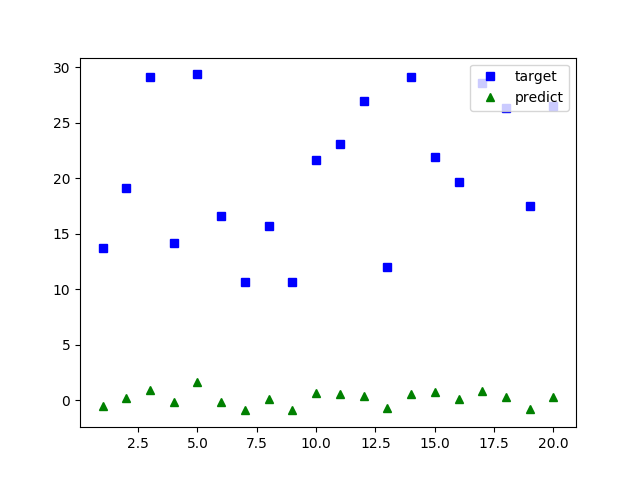
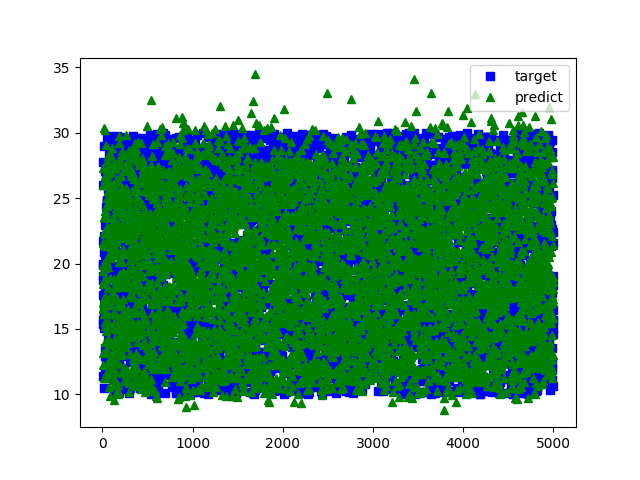
para1 = [1/2,1,1/2]

diff --git a/lorenz_nn.py b/lorenz_nn.py
@@ -10,7 +10,7 @@ from torch.autograd import Variable
 my_path = '/home/peiguo/Lorenz_MLP/training_fig'
 my_results_path_rela = '/home/peiguo/Lorenz_MLP/results/rela_error' 
 my_results_path_abso = '/home/peiguo/Lorenz_MLP/results/abso_error' 
-total_samples = 20
+total_samples = 5000
 
 def dataset(total_samples):
     def f(state,t):
@@ -109,7 +109,7 @@ loss_fn = MSRELoss().cuda()
 learning_rate = 1e-5
 #learning_rate = 1e-3
 
-EPOCH = 10
+EPOCH = 100
 
 # define the optimizer
 optimizer = torch.optim.SGD(model.parameters(), lr=learning_rate)
@@ -135,13 +135,13 @@ rela_error_beta_lastep = []
 
 for t in range(EPOCH):
     #training
-    batch_num = int(np.ceil(total_samples // batch_size))
+    batch_num = int(np.ceil(total_samples / batch_size))
     print(batch_num)
     shuffled = np.arange(total_samples)
     np.random.shuffle(shuffled)
     total_loss = 0
     all_data = 0
-    for i in range(batch_num+1):
+    for i in range(batch_num):
         start = i*batch_size
         end = min(total_samples, (i+1)*batch_size)
         inputs = train_inputs[shuffled[start:end]]
@@ -173,7 +173,7 @@ for t in range(EPOCH):
     target_rho = []
     pred_rho = []
 
-    for i in range(batch_num+1):
+    for i in range(batch_num):
         start = i*batch_size
         end = min(total_samples, (i+1)*batch_size)
         inputs = test_inputs[start:end]
